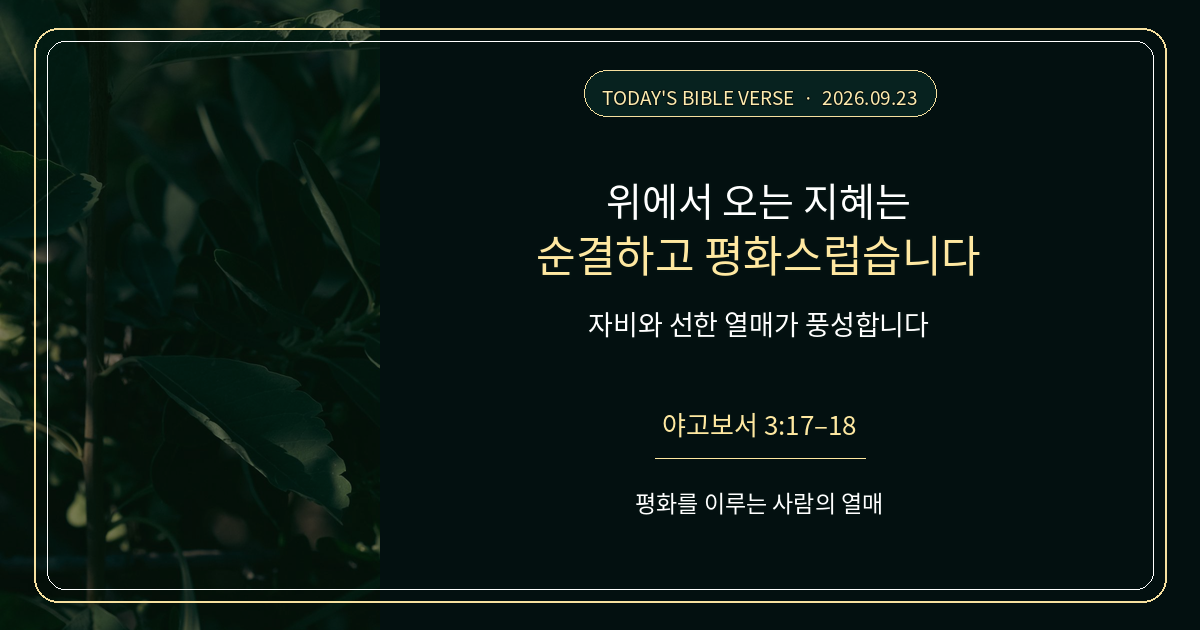
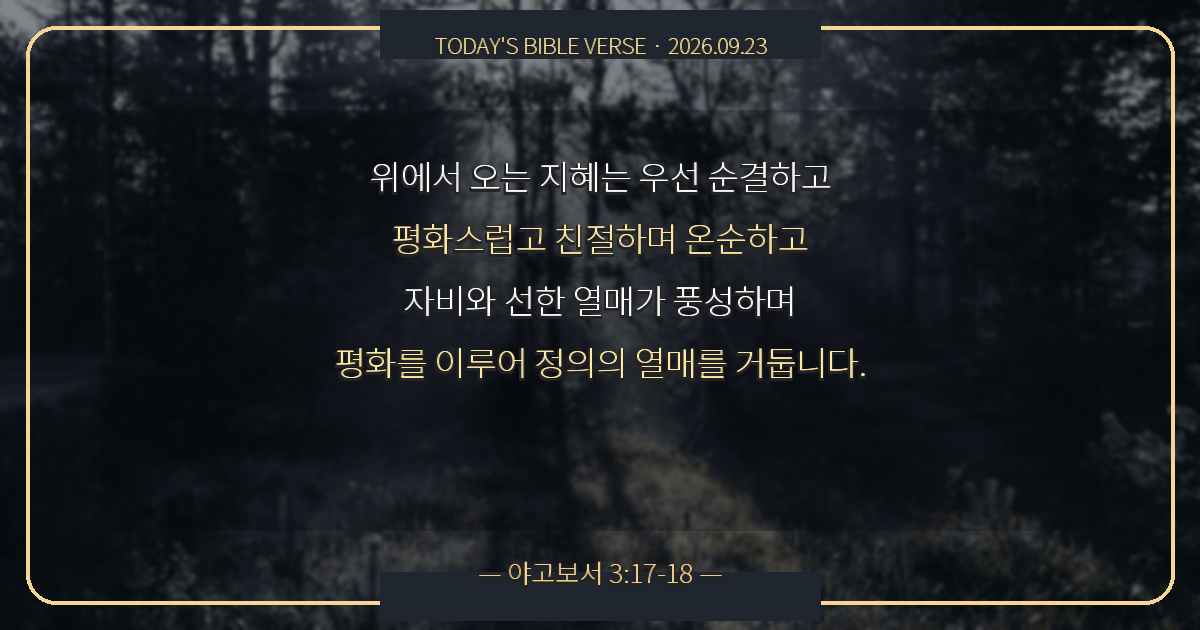
Update James 3:17-18 daily Bible verse page with serene forest sunlight background and readable Kakao thumbnail for 2026-09-23

diff --git a/2026-09-23/kakao-v1.html b/2026-09-23/kakao-v1.html
@@ -1,18 +1,92 @@
-<!doctype html>
+<!DOCTYPE html>
 <html lang="ko">
 <head>
-  <meta charset="utf-8"><meta name="viewport" content="width=device-width, initial-scale=1"><meta name="theme-color" content="#0d2d28">
-  <meta name="description" content="위에서 오는 지혜는 순결하고 평화로우며 자비와 선한 열매가 풍성합니다. 야고보서 3:17–18">
-  <link rel="canonical" href="https://vidavida1970.github.io/Bible/2026-09-23/kakao-v1.html"><link rel="image_src" href="https://vidavida1970.github.io/Bible/2026-09-23/assets/thumbnail-v1.jpg"><meta name="thumbnail" content="https://vidavida1970.github.io/Bible/2026-09-23/assets/thumbnail-v1.jpg">
-  <meta property="og:title" content="오늘의 말씀 · 야고보서 3:17–18"><meta property="og:description" content="위에서 오는 지혜는 순결하고 평화로우며 자비와 선한 열매가 풍성합니다."><meta property="og:type" content="website"><meta property="og:site_name" content="오늘의 말씀"><meta property="og:locale" content="ko_KR"><meta property="og:url" content="https://vidavida1970.github.io/Bible/2026-09-23/kakao-v1.html"><meta property="og:image" content="https://vidavida1970.github.io/Bible/2026-09-23/assets/thumbnail-v1.jpg"><meta property="og:image:url" content="https://vidavida1970.github.io/Bible/2026-09-23/assets/thumbnail-v1.jpg"><meta property="og:image:secure_url" content="https://vidavida1970.github.io/Bible/2026-09-23/assets/thumbnail-v1.jpg"><meta property="og:image:type" content="image/jpeg"><meta property="og:image:width" content="1200"><meta property="og:image:height" content="630"><meta property="og:image:alt" content="야고보서 3장 17–18절 오늘의 말씀 썸네일">
-  <meta name="twitter:card" content="summary_large_image"><meta name="twitter:title" content="오늘의 말씀 · 야고보서 3:17–18"><meta name="twitter:description" content="위에서 오는 지혜는 순결하고 평화로우며 자비와 선한 열매가 풍성합니다."><meta name="twitter:image" content="https://vidavida1970.github.io/Bible/2026-09-23/assets/thumbnail-v1.jpg"><meta name="twitter:image:alt" content="야고보서 3장 17–18절 오늘의 말씀 썸네일">
-  <title>오늘의 말씀 · 야고보서 3:17–18</title>
+  <meta charset="UTF-8">
+  <meta name="viewport" content="width=device-width, initial-scale=1.0">
+  <meta name="theme-color" content="#0b111c">
+  <meta name="description" content="“그러나 위에서 오는 지혜는 우선 순결하고, 다음으로 평화스럽고, 친절하고, 온순하고, 자비와 선한 열매가 풍성하고, 편견과 위선이 없습니다. 정의의 열매는 평화를 이루는 사람들이 평화를 위하여 그 씨를 뿌려서 거두어들이는 열매입니다.” — 야고보서 3:17-18">
+  <link rel="canonical" href="https://vidavida1970.github.io/Bible/2026-09-23/">
+  <link rel="image_src" href="https://vidavida1970.github.io/Bible/2026-09-23/assets/thumbnail-v2.jpg?v=20260923">
+  <meta name="thumbnail" content="https://vidavida1970.github.io/Bible/2026-09-23/assets/thumbnail-v2.jpg?v=20260923">
+
+  <!-- KakaoTalk & OpenGraph -->
+  <meta property="og:title" content="오늘의 말씀｜위에서 오는 지혜와 평화의 열매">
+  <meta property="og:description" content="“위에서 오는 지혜는 우선 순결하고 평화스럽고 친절하며 온순하고, 자비와 선한 열매가 풍성합니다.” — 야고보서 3:17-18">
+  <meta property="og:type" content="article">
+  <meta property="og:site_name" content="매일매일 큐티">
+  <meta property="og:locale" content="ko_KR">
+  <meta property="og:url" content="https://vidavida1970.github.io/Bible/2026-09-23/">
+  <meta property="og:image" content="https://vidavida1970.github.io/Bible/2026-09-23/assets/thumbnail-v2.jpg?v=20260923">
+  <meta property="og:image:url" content="https://vidavida1970.github.io/Bible/2026-09-23/assets/thumbnail-v2.jpg?v=20260923">
+  <meta property="og:image:secure_url" content="https://vidavida1970.github.io/Bible/2026-09-23/assets/thumbnail-v2.jpg?v=20260923">
+  <meta property="og:image:type" content="image/jpeg">
+  <meta property="og:image:width" content="1200">
+  <meta property="og:image:height" content="630">
+  <meta property="og:image:alt" content="고요한 숲속으로 쏟아지는 아침 햇살과 야고보서 3장 17-18절 오늘의 말씀 묵상">
+
+  <!-- Twitter Card -->
+  <meta name="twitter:card" content="summary_large_image">
+  <meta name="twitter:title" content="오늘의 말씀｜위에서 오는 지혜와 평화의 열매">
+  <meta name="twitter:description" content="“위에서 오는 지혜는 우선 순결하고 평화스럽고 친절하며 온순하고, 자비와 선한 열매가 풍성합니다.” — 야고보서 3:17-18">
+  <meta name="twitter:image" content="https://vidavida1970.github.io/Bible/2026-09-23/assets/thumbnail-v2.jpg?v=20260923">
+  <meta name="twitter:image:alt" content="고요한 숲속으로 쏟아지는 아침 햇살과 야고보서 3장 17-18절 오늘의 말씀 묵상">
+
+  <title>오늘의 말씀｜위에서 오는 지혜와 평화의 열매 (야고보서 3:17-18)</title>
   <style>
-    @import url('https://fonts.googleapis.com/css2?family=Noto+Serif+KR:wght@500;700;900&family=Pretendard:wght@400;600;700;800&display=swap');*{box-sizing:border-box}:root{--gold:#ffe8a1}body{margin:0;min-height:100vh;color:#f1fbf6;font-family:Pretendard,"Noto Sans KR",sans-serif;background:#0d2d28}.page{min-height:100vh;padding:clamp(28px,6vw,72px) 16px;background:linear-gradient(180deg,rgba(5,27,23,.28),rgba(3,19,17,.86)),url('assets/background.jpg') center/cover no-repeat fixed}.shell{width:min(980px,100%);margin:auto;display:grid;gap:26px}.card{border:1px solid rgba(255,255,255,.26);box-shadow:0 26px 75px rgba(0,0,0,.32);backdrop-filter:blur(14px);-webkit-backdrop-filter:blur(14px)}.verse-card{padding:clamp(32px,7vw,74px) clamp(22px,6vw,72px);border-radius:32px;text-align:center;background:rgba(8,42,35,.76)}.date{margin:0 0 12px;font-size:13px;letter-spacing:.15em;color:rgba(255,255,255,.76)}.label{margin:0 0 27px;color:var(--gold);font-size:14px;font-weight:800;letter-spacing:.18em}blockquote{margin:0;font-family:"Noto Serif KR",serif;font-size:clamp(23px,3.8vw,40px);line-height:1.72;font-weight:700;letter-spacing:-.045em;word-break:keep-all;text-shadow:0 4px 22px rgba(0,0,0,.72)}.highlight{color:var(--gold);font-weight:900}.note{margin:25px auto 0;max-width:700px;color:rgba(255,255,255,.78);font-size:15px;line-height:1.8;word-break:keep-all}.reference{margin-top:24px;font-size:18px;font-weight:800;color:var(--gold)}.video-card{padding:20px;border-radius:26px;background:rgba(5,31,26,.88)}.video-heading{margin:0 0 14px;font-size:17px}.video-wrap{position:relative;aspect-ratio:16/9;overflow:hidden;border-radius:18px;background:#000}.video-wrap iframe{position:absolute;inset:0;width:100%;height:100%;border:0}.watch-button{display:inline-flex;min-height:46px;align-items:center;margin-top:14px;padding:0 20px;border-radius:999px;background:var(--gold);color:#11362f;text-decoration:none;font-weight:800}.credit{margin:0;text-align:center;font-size:12px;color:rgba(255,255,255,.74)}.credit a{color:#fff}@media(max-width:700px){.page{background-attachment:scroll}.verse-card{border-radius:24px}.video-card{padding:14px;border-radius:22px}blockquote{line-height:1.62}}
+    *{box-sizing:border-box}
+    html{scroll-behavior:smooth}
+    body{margin:0;background:#0b111c;color:#fff;font-family:Pretendard,"Noto Sans KR","Apple SD Gothic Neo",sans-serif;-webkit-font-smoothing:antialiased}
+    .page{min-height:100vh;padding:56px 20px 72px;background:linear-gradient(180deg,rgba(11,18,32,.55),rgba(7,11,20,.94)),url("assets/background.jpg") center/cover no-repeat fixed}
+    .shell{width:min(940px,100%);margin:auto;display:grid;gap:26px}
+    .card{border:1px solid rgba(245,215,150,.25);backdrop-filter:blur(18px);-webkit-backdrop-filter:blur(18px);box-shadow:0 26px 75px rgba(0,0,0,.45)}
+    .verse{padding:clamp(36px,6vw,72px);border-radius:34px;background:linear-gradient(145deg,rgba(16,25,44,.86),rgba(24,36,62,.66));text-align:center}
+    .date{margin:0 0 10px;color:rgba(255,255,255,.78);font-size:15px;letter-spacing:.08em;font-weight:500}
+    .label{margin:0 0 28px;color:#f5d28b;font-weight:800;letter-spacing:.20em;font-size:14px}
+    blockquote{margin:0;font-family:"Noto Serif KR","Nanum Myeongjo",serif;font-size:clamp(19px,3.1vw,29px);font-weight:700;line-height:1.85;letter-spacing:-.035em;word-break:keep-all;text-shadow:0 4px 24px rgba(0,0,0,.75)}
+    .highlight{color:#ffe8a3;font-weight:900}
+    .ref{margin-top:30px;color:#f5d28b;font-size:20px;font-weight:800;letter-spacing:.05em}
+    .video{padding:26px;border-radius:28px;background:rgba(14,21,38,.88)}
+    h2{margin:0 0 16px;font-size:19px;font-weight:700;color:#f5d28b;display:flex;align-items:center;gap:8px}
+    .video-wrap{position:relative;width:100%;aspect-ratio:16/9;overflow:hidden;border-radius:20px;background:#000;box-shadow:0 12px 40px rgba(0,0,0,.5)}
+    .video-wrap iframe{position:absolute;inset:0;width:100%;height:100%;border:0}
+    .btn-wrap{display:flex;justify-content:center;margin-top:18px}
+    .watch{display:inline-flex;min-height:48px;align-items:center;padding:0 24px;border-radius:999px;background:#f5d28b;color:#0b111c;text-decoration:none;font-weight:800;font-size:15px;box-shadow:0 8px 25px rgba(245,210,139,.3);transition:transform .2s,background .2s}
+    .watch:hover{background:#ffe3a8;transform:translateY(-2px)}
+    .credit{margin:10px 0 0;text-align:center;font-size:13px;color:rgba(255,255,255,.68);letter-spacing:.02em}
+    @media(max-width:700px){
+      .page{padding:28px 14px 44px;background-attachment:scroll}
+      .verse{padding:36px 20px;border-radius:26px}
+      .video{padding:18px;border-radius:24px}
+      blockquote{line-height:1.70;font-size:clamp(16px,4.6vw,22px)}
+    }
   </style>
 </head>
-<body><main class="page"><div class="shell">
-  <section class="card verse-card"><p class="date">2026년 9월 23일</p><p class="label">TODAY'S WORD · 오늘의 말씀</p><blockquote>“위에서 오는 지혜는 <span class="highlight">순결하고 평화스럽습니다.</span><br>자비와 선한 열매가 풍성합니다.<br><span class="highlight">평화를 이루는 사람은 정의의 열매를 거둡니다.</span>”</blockquote><p class="note">오늘의 말씀 핵심: 순결한 지혜는 평화를 만들고, 온유와 자비를 통해 선한 열매를 맺습니다.</p><div class="reference">야고보서 3:17–18</div></section>
-  <section class="card video-card"><h2 class="video-heading">▶ 말씀과 함께 영상 보기</h2><div class="video-wrap"><iframe src="https://www.youtube-nocookie.com/embed/SxyHZ0ox3LM?rel=0&amp;playsinline=1" title="야고보서 3장 17–18절 말씀 묵상 영상" referrerpolicy="strict-origin-when-cross-origin" allow="accelerometer; autoplay; clipboard-write; encrypted-media; gyroscope; picture-in-picture; web-share" allowfullscreen></iframe></div><a class="watch-button" href="https://youtu.be/SxyHZ0ox3LM?si=GRRNjxxVhtL4tbJc" target="_blank" rel="noopener noreferrer">▶ YouTube에서 바로 보기</a></section>
-  <p class="credit">Background photo: <a href="https://www.pexels.com/photo/serene-white-flowers-in-sunlit-garden-32628232/" target="_blank" rel="noopener noreferrer">Kaiya Inouye · Pexels</a></p>
-</div></main></body></html>
+<body>
+  <main class="page"><div class="shell">
+    <section class="card verse">
+      <p class="date">2026년 9월 23일 수요일</p>
+      <p class="label">TODAY'S BIBLE VERSE · 오늘의 말씀</p>
+      <blockquote>
+        “그러나 위에서 오는 지혜는 <span class="highlight">우선 순결하고,</span><br>
+        다음으로 <span class="highlight">평화스럽고, 친절하고, 온순하고,</span><br>
+        자비와 선한 열매가 풍성하고, 편견과 위선이 없습니다.<br><br>
+        <span class="highlight">정의의 열매는 평화를 이루는 사람들이</span><br>
+        <span class="highlight">평화를 위하여 그 씨를 뿌려서 거두어들이는 열매입니다.</span>”
+      </blockquote>
+      <div class="ref">— 야고보서 3:17-18 —</div>
+    </section>
+
+    <section class="card video">
+      <h2>▶ 야고보서 3:17-18 말씀 찬양 영상 함께 보기</h2>
+      <div class="video-wrap">
+        <iframe src="https://www.youtube-nocookie.com/embed/SxyHZ0ox3LM?rel=0&amp;playsinline=1" title="야고보서 3:17-18 말씀 찬양 영상" referrerpolicy="strict-origin-when-cross-origin" allow="accelerometer; autoplay; clipboard-write; encrypted-media; gyroscope; picture-in-picture; web-share" allowfullscreen></iframe>
+      </div>
+      <div class="btn-wrap">
+        <a class="watch" href="https://youtu.be/SxyHZ0ox3LM" target="_blank" rel="noopener noreferrer">▶ YouTube에서 바로 보기</a>
+      </div>
+    </section>
+
+    <p class="credit">매일매일 큐티 · 오늘의 말씀 배경화면 | 2026-09-23 · 야고보서 3:17-18</p>
+  </div></main>
+</body>
+</html>

diff --git a/2026-09-23/kakao-v2.html b/2026-09-23/kakao-v2.html
@@ -1,18 +1,92 @@
-<!doctype html>
+<!DOCTYPE html>
 <html lang="ko">
 <head>
-  <meta charset="utf-8"><meta name="viewport" content="width=device-width, initial-scale=1"><meta name="theme-color" content="#0d2d28">
-  <meta name="description" content="위에서 오는 지혜는 순결하고 평화로우며 자비와 선한 열매가 풍성합니다. 야고보서 3:17–18">
-  <link rel="canonical" href="https://vidavida1970.github.io/Bible/2026-09-23/kakao-v2.html"><link rel="image_src" href="https://vidavida1970.github.io/Bible/2026-09-23/assets/thumbnail-v2.jpg"><meta name="thumbnail" content="https://vidavida1970.github.io/Bible/2026-09-23/assets/thumbnail-v2.jpg">
-  <meta property="og:title" content="오늘의 말씀 · 야고보서 3:17–18"><meta property="og:description" content="위에서 오는 지혜는 순결하고 평화로우며 자비와 선한 열매가 풍성합니다."><meta property="og:type" content="website"><meta property="og:site_name" content="오늘의 말씀"><meta property="og:locale" content="ko_KR"><meta property="og:url" content="https://vidavida1970.github.io/Bible/2026-09-23/kakao-v2.html"><meta property="og:image" content="https://vidavida1970.github.io/Bible/2026-09-23/assets/thumbnail-v2.jpg"><meta property="og:image:url" content="https://vidavida1970.github.io/Bible/2026-09-23/assets/thumbnail-v2.jpg"><meta property="og:image:secure_url" content="https://vidavida1970.github.io/Bible/2026-09-23/assets/thumbnail-v2.jpg"><meta property="og:image:type" content="image/jpeg"><meta property="og:image:width" content="1200"><meta property="og:image:height" content="630"><meta property="og:image:alt" content="야고보서 3장 17–18절 오늘의 말씀 썸네일">
-  <meta name="twitter:card" content="summary_large_image"><meta name="twitter:title" content="오늘의 말씀 · 야고보서 3:17–18"><meta name="twitter:description" content="위에서 오는 지혜는 순결하고 평화로우며 자비와 선한 열매가 풍성합니다."><meta name="twitter:image" content="https://vidavida1970.github.io/Bible/2026-09-23/assets/thumbnail-v2.jpg"><meta name="twitter:image:alt" content="야고보서 3장 17–18절 오늘의 말씀 썸네일">
-  <title>오늘의 말씀 · 야고보서 3:17–18</title>
+  <meta charset="UTF-8">
+  <meta name="viewport" content="width=device-width, initial-scale=1.0">
+  <meta name="theme-color" content="#0b111c">
+  <meta name="description" content="“그러나 위에서 오는 지혜는 우선 순결하고, 다음으로 평화스럽고, 친절하고, 온순하고, 자비와 선한 열매가 풍성하고, 편견과 위선이 없습니다. 정의의 열매는 평화를 이루는 사람들이 평화를 위하여 그 씨를 뿌려서 거두어들이는 열매입니다.” — 야고보서 3:17-18">
+  <link rel="canonical" href="https://vidavida1970.github.io/Bible/2026-09-23/">
+  <link rel="image_src" href="https://vidavida1970.github.io/Bible/2026-09-23/assets/thumbnail-v2.jpg?v=20260923">
+  <meta name="thumbnail" content="https://vidavida1970.github.io/Bible/2026-09-23/assets/thumbnail-v2.jpg?v=20260923">
+
+  <!-- KakaoTalk & OpenGraph -->
+  <meta property="og:title" content="오늘의 말씀｜위에서 오는 지혜와 평화의 열매">
+  <meta property="og:description" content="“위에서 오는 지혜는 우선 순결하고 평화스럽고 친절하며 온순하고, 자비와 선한 열매가 풍성합니다.” — 야고보서 3:17-18">
+  <meta property="og:type" content="article">
+  <meta property="og:site_name" content="매일매일 큐티">
+  <meta property="og:locale" content="ko_KR">
+  <meta property="og:url" content="https://vidavida1970.github.io/Bible/2026-09-23/">
+  <meta property="og:image" content="https://vidavida1970.github.io/Bible/2026-09-23/assets/thumbnail-v2.jpg?v=20260923">
+  <meta property="og:image:url" content="https://vidavida1970.github.io/Bible/2026-09-23/assets/thumbnail-v2.jpg?v=20260923">
+  <meta property="og:image:secure_url" content="https://vidavida1970.github.io/Bible/2026-09-23/assets/thumbnail-v2.jpg?v=20260923">
+  <meta property="og:image:type" content="image/jpeg">
+  <meta property="og:image:width" content="1200">
+  <meta property="og:image:height" content="630">
+  <meta property="og:image:alt" content="고요한 숲속으로 쏟아지는 아침 햇살과 야고보서 3장 17-18절 오늘의 말씀 묵상">
+
+  <!-- Twitter Card -->
+  <meta name="twitter:card" content="summary_large_image">
+  <meta name="twitter:title" content="오늘의 말씀｜위에서 오는 지혜와 평화의 열매">
+  <meta name="twitter:description" content="“위에서 오는 지혜는 우선 순결하고 평화스럽고 친절하며 온순하고, 자비와 선한 열매가 풍성합니다.” — 야고보서 3:17-18">
+  <meta name="twitter:image" content="https://vidavida1970.github.io/Bible/2026-09-23/assets/thumbnail-v2.jpg?v=20260923">
+  <meta name="twitter:image:alt" content="고요한 숲속으로 쏟아지는 아침 햇살과 야고보서 3장 17-18절 오늘의 말씀 묵상">
+
+  <title>오늘의 말씀｜위에서 오는 지혜와 평화의 열매 (야고보서 3:17-18)</title>
   <style>
-    @import url('https://fonts.googleapis.com/css2?family=Noto+Serif+KR:wght@500;700;900&family=Pretendard:wght@400;600;700;800&display=swap');*{box-sizing:border-box}:root{--gold:#ffe8a1}body{margin:0;min-height:100vh;color:#f1fbf6;font-family:Pretendard,"Noto Sans KR",sans-serif;background:#0d2d28}.page{min-height:100vh;padding:clamp(28px,6vw,72px) 16px;background:linear-gradient(180deg,rgba(5,27,23,.28),rgba(3,19,17,.86)),url('assets/background.jpg') center/cover no-repeat fixed}.shell{width:min(980px,100%);margin:auto;display:grid;gap:26px}.card{border:1px solid rgba(255,255,255,.26);box-shadow:0 26px 75px rgba(0,0,0,.32);backdrop-filter:blur(14px);-webkit-backdrop-filter:blur(14px)}.verse-card{padding:clamp(32px,7vw,74px) clamp(22px,6vw,72px);border-radius:32px;text-align:center;background:rgba(8,42,35,.76)}.date{margin:0 0 12px;font-size:13px;letter-spacing:.15em;color:rgba(255,255,255,.76)}.label{margin:0 0 27px;color:var(--gold);font-size:14px;font-weight:800;letter-spacing:.18em}blockquote{margin:0;font-family:"Noto Serif KR",serif;font-size:clamp(23px,3.8vw,40px);line-height:1.72;font-weight:700;letter-spacing:-.045em;word-break:keep-all;text-shadow:0 4px 22px rgba(0,0,0,.72)}.highlight{color:var(--gold);font-weight:900}.note{margin:25px auto 0;max-width:700px;color:rgba(255,255,255,.78);font-size:15px;line-height:1.8;word-break:keep-all}.reference{margin-top:24px;font-size:18px;font-weight:800;color:var(--gold)}.video-card{padding:20px;border-radius:26px;background:rgba(5,31,26,.88)}.video-heading{margin:0 0 14px;font-size:17px}.video-wrap{position:relative;aspect-ratio:16/9;overflow:hidden;border-radius:18px;background:#000}.video-wrap iframe{position:absolute;inset:0;width:100%;height:100%;border:0}.watch-button{display:inline-flex;min-height:46px;align-items:center;margin-top:14px;padding:0 20px;border-radius:999px;background:var(--gold);color:#11362f;text-decoration:none;font-weight:800}.credit{margin:0;text-align:center;font-size:12px;color:rgba(255,255,255,.74)}.credit a{color:#fff}@media(max-width:700px){.page{background-attachment:scroll}.verse-card{border-radius:24px}.video-card{padding:14px;border-radius:22px}blockquote{line-height:1.62}}
+    *{box-sizing:border-box}
+    html{scroll-behavior:smooth}
+    body{margin:0;background:#0b111c;color:#fff;font-family:Pretendard,"Noto Sans KR","Apple SD Gothic Neo",sans-serif;-webkit-font-smoothing:antialiased}
+    .page{min-height:100vh;padding:56px 20px 72px;background:linear-gradient(180deg,rgba(11,18,32,.55),rgba(7,11,20,.94)),url("assets/background.jpg") center/cover no-repeat fixed}
+    .shell{width:min(940px,100%);margin:auto;display:grid;gap:26px}
+    .card{border:1px solid rgba(245,215,150,.25);backdrop-filter:blur(18px);-webkit-backdrop-filter:blur(18px);box-shadow:0 26px 75px rgba(0,0,0,.45)}
+    .verse{padding:clamp(36px,6vw,72px);border-radius:34px;background:linear-gradient(145deg,rgba(16,25,44,.86),rgba(24,36,62,.66));text-align:center}
+    .date{margin:0 0 10px;color:rgba(255,255,255,.78);font-size:15px;letter-spacing:.08em;font-weight:500}
+    .label{margin:0 0 28px;color:#f5d28b;font-weight:800;letter-spacing:.20em;font-size:14px}
+    blockquote{margin:0;font-family:"Noto Serif KR","Nanum Myeongjo",serif;font-size:clamp(19px,3.1vw,29px);font-weight:700;line-height:1.85;letter-spacing:-.035em;word-break:keep-all;text-shadow:0 4px 24px rgba(0,0,0,.75)}
+    .highlight{color:#ffe8a3;font-weight:900}
+    .ref{margin-top:30px;color:#f5d28b;font-size:20px;font-weight:800;letter-spacing:.05em}
+    .video{padding:26px;border-radius:28px;background:rgba(14,21,38,.88)}
+    h2{margin:0 0 16px;font-size:19px;font-weight:700;color:#f5d28b;display:flex;align-items:center;gap:8px}
+    .video-wrap{position:relative;width:100%;aspect-ratio:16/9;overflow:hidden;border-radius:20px;background:#000;box-shadow:0 12px 40px rgba(0,0,0,.5)}
+    .video-wrap iframe{position:absolute;inset:0;width:100%;height:100%;border:0}
+    .btn-wrap{display:flex;justify-content:center;margin-top:18px}
+    .watch{display:inline-flex;min-height:48px;align-items:center;padding:0 24px;border-radius:999px;background:#f5d28b;color:#0b111c;text-decoration:none;font-weight:800;font-size:15px;box-shadow:0 8px 25px rgba(245,210,139,.3);transition:transform .2s,background .2s}
+    .watch:hover{background:#ffe3a8;transform:translateY(-2px)}
+    .credit{margin:10px 0 0;text-align:center;font-size:13px;color:rgba(255,255,255,.68);letter-spacing:.02em}
+    @media(max-width:700px){
+      .page{padding:28px 14px 44px;background-attachment:scroll}
+      .verse{padding:36px 20px;border-radius:26px}
+      .video{padding:18px;border-radius:24px}
+      blockquote{line-height:1.70;font-size:clamp(16px,4.6vw,22px)}
+    }
   </style>
 </head>
-<body><main class="page"><div class="shell">
-  <section class="card verse-card"><p class="date">2026년 9월 23일</p><p class="label">TODAY'S WORD · 오늘의 말씀</p><blockquote>“위에서 오는 지혜는 <span class="highlight">순결하고 평화스럽습니다.</span><br>자비와 선한 열매가 풍성합니다.<br><span class="highlight">평화를 이루는 사람은 정의의 열매를 거둡니다.</span>”</blockquote><p class="note">오늘의 말씀 핵심: 순결한 지혜는 평화를 만들고, 온유와 자비를 통해 선한 열매를 맺습니다.</p><div class="reference">야고보서 3:17–18</div></section>
-  <section class="card video-card"><h2 class="video-heading">▶ 말씀과 함께 영상 보기</h2><div class="video-wrap"><iframe src="https://www.youtube-nocookie.com/embed/SxyHZ0ox3LM?rel=0&amp;playsinline=1" title="야고보서 3장 17–18절 말씀 묵상 영상" referrerpolicy="strict-origin-when-cross-origin" allow="accelerometer; autoplay; clipboard-write; encrypted-media; gyroscope; picture-in-picture; web-share" allowfullscreen></iframe></div><a class="watch-button" href="https://youtu.be/SxyHZ0ox3LM?si=GRRNjxxVhtL4tbJc" target="_blank" rel="noopener noreferrer">▶ YouTube에서 바로 보기</a></section>
-  <p class="credit">Background photo: <a href="https://www.pexels.com/photo/serene-white-flowers-in-sunlit-garden-32628232/" target="_blank" rel="noopener noreferrer">Kaiya Inouye · Pexels</a></p>
-</div></main></body></html>
+<body>
+  <main class="page"><div class="shell">
+    <section class="card verse">
+      <p class="date">2026년 9월 23일 수요일</p>
+      <p class="label">TODAY'S BIBLE VERSE · 오늘의 말씀</p>
+      <blockquote>
+        “그러나 위에서 오는 지혜는 <span class="highlight">우선 순결하고,</span><br>
+        다음으로 <span class="highlight">평화스럽고, 친절하고, 온순하고,</span><br>
+        자비와 선한 열매가 풍성하고, 편견과 위선이 없습니다.<br><br>
+        <span class="highlight">정의의 열매는 평화를 이루는 사람들이</span><br>
+        <span class="highlight">평화를 위하여 그 씨를 뿌려서 거두어들이는 열매입니다.</span>”
+      </blockquote>
+      <div class="ref">— 야고보서 3:17-18 —</div>
+    </section>
+
+    <section class="card video">
+      <h2>▶ 야고보서 3:17-18 말씀 찬양 영상 함께 보기</h2>
+      <div class="video-wrap">
+        <iframe src="https://www.youtube-nocookie.com/embed/SxyHZ0ox3LM?rel=0&amp;playsinline=1" title="야고보서 3:17-18 말씀 찬양 영상" referrerpolicy="strict-origin-when-cross-origin" allow="accelerometer; autoplay; clipboard-write; encrypted-media; gyroscope; picture-in-picture; web-share" allowfullscreen></iframe>
+      </div>
+      <div class="btn-wrap">
+        <a class="watch" href="https://youtu.be/SxyHZ0ox3LM" target="_blank" rel="noopener noreferrer">▶ YouTube에서 바로 보기</a>
+      </div>
+    </section>
+
+    <p class="credit">매일매일 큐티 · 오늘의 말씀 배경화면 | 2026-09-23 · 야고보서 3:17-18</p>
+  </div></main>
+</body>
+</html>

diff --git a/2026-09-23/index.html b/2026-09-23/index.html
@@ -1,71 +1,92 @@
-<!doctype html>
+<!DOCTYPE html>
 <html lang="ko">
 <head>
-  <meta charset="utf-8">
-  <meta name="viewport" content="width=device-width, initial-scale=1">
-  <meta name="theme-color" content="#0d2d28">
-  <meta name="description" content="야고보서 3장 17–18절 — 위에서 오는 지혜는 순결하고 평화로우며 자비와 선한 열매가 풍성합니다.">
+  <meta charset="UTF-8">
+  <meta name="viewport" content="width=device-width, initial-scale=1.0">
+  <meta name="theme-color" content="#0b111c">
+  <meta name="description" content="“그러나 위에서 오는 지혜는 우선 순결하고, 다음으로 평화스럽고, 친절하고, 온순하고, 자비와 선한 열매가 풍성하고, 편견과 위선이 없습니다. 정의의 열매는 평화를 이루는 사람들이 평화를 위하여 그 씨를 뿌려서 거두어들이는 열매입니다.” — 야고보서 3:17-18">
   <link rel="canonical" href="https://vidavida1970.github.io/Bible/2026-09-23/">
-  <link rel="image_src" href="https://vidavida1970.github.io/Bible/2026-09-23/assets/thumbnail-v2.jpg">
-  <meta name="thumbnail" content="https://vidavida1970.github.io/Bible/2026-09-23/assets/thumbnail-v2.jpg">
-  <meta property="og:title" content="오늘의 말씀 · 야고보서 3:17–18">
-  <meta property="og:description" content="위에서 오는 지혜는 순결하고 평화로우며 자비와 선한 열매가 풍성합니다.">
-  <meta property="og:type" content="website">
-  <meta property="og:site_name" content="오늘의 말씀">
+  <link rel="image_src" href="https://vidavida1970.github.io/Bible/2026-09-23/assets/thumbnail-v2.jpg?v=20260923">
+  <meta name="thumbnail" content="https://vidavida1970.github.io/Bible/2026-09-23/assets/thumbnail-v2.jpg?v=20260923">
+
+  <!-- KakaoTalk & OpenGraph -->
+  <meta property="og:title" content="오늘의 말씀｜위에서 오는 지혜와 평화의 열매">
+  <meta property="og:description" content="“위에서 오는 지혜는 우선 순결하고 평화스럽고 친절하며 온순하고, 자비와 선한 열매가 풍성합니다.” — 야고보서 3:17-18">
+  <meta property="og:type" content="article">
+  <meta property="og:site_name" content="매일매일 큐티">
   <meta property="og:locale" content="ko_KR">
   <meta property="og:url" content="https://vidavida1970.github.io/Bible/2026-09-23/">
-  <meta property="og:image" content="https://vidavida1970.github.io/Bible/2026-09-23/assets/thumbnail-v2.jpg">
-  <meta property="og:image:url" content="https://vidavida1970.github.io/Bible/2026-09-23/assets/thumbnail-v2.jpg">
-  <meta property="og:image:secure_url" content="https://vidavida1970.github.io/Bible/2026-09-23/assets/thumbnail-v2.jpg">
+  <meta property="og:image" content="https://vidavida1970.github.io/Bible/2026-09-23/assets/thumbnail-v2.jpg?v=20260923">
+  <meta property="og:image:url" content="https://vidavida1970.github.io/Bible/2026-09-23/assets/thumbnail-v2.jpg?v=20260923">
+  <meta property="og:image:secure_url" content="https://vidavida1970.github.io/Bible/2026-09-23/assets/thumbnail-v2.jpg?v=20260923">
   <meta property="og:image:type" content="image/jpeg">
   <meta property="og:image:width" content="1200">
   <meta property="og:image:height" content="630">
-  <meta property="og:image:alt" content="흰 꽃과 녹색 잎을 배경으로 한 야고보서 3장 17–18절 오늘의 말씀">
+  <meta property="og:image:alt" content="고요한 숲속으로 쏟아지는 아침 햇살과 야고보서 3장 17-18절 오늘의 말씀 묵상">
+
+  <!-- Twitter Card -->
   <meta name="twitter:card" content="summary_large_image">
-  <meta name="twitter:title" content="오늘의 말씀 · 야고보서 3:17–18">
-  <meta name="twitter:description" content="위에서 오는 지혜는 순결하고 평화로우며 자비와 선한 열매가 풍성합니다.">
-  <meta name="twitter:image" content="https://vidavida1970.github.io/Bible/2026-09-23/assets/thumbnail-v2.jpg">
-  <title>오늘의 말씀 · 야고보서 3:17–18</title>
+  <meta name="twitter:title" content="오늘의 말씀｜위에서 오는 지혜와 평화의 열매">
+  <meta name="twitter:description" content="“위에서 오는 지혜는 우선 순결하고 평화스럽고 친절하며 온순하고, 자비와 선한 열매가 풍성합니다.” — 야고보서 3:17-18">
+  <meta name="twitter:image" content="https://vidavida1970.github.io/Bible/2026-09-23/assets/thumbnail-v2.jpg?v=20260923">
+  <meta name="twitter:image:alt" content="고요한 숲속으로 쏟아지는 아침 햇살과 야고보서 3장 17-18절 오늘의 말씀 묵상">
+
+  <title>오늘의 말씀｜위에서 오는 지혜와 평화의 열매 (야고보서 3:17-18)</title>
   <style>
-    @import url('https://fonts.googleapis.com/css2?family=Noto+Serif+KR:wght@500;700;900&family=Pretendard:wght@400;600;700;800&display=swap');
-    :root { --gold:#ffe8a1; --ink:#f1fbf6; --green:#0d2d28; }
-    * { box-sizing:border-box; }
-    body { margin:0; min-height:100vh; color:var(--ink); font-family:Pretendard,"Noto Sans KR",sans-serif; background:#0d2d28; }
-    .page { min-height:100vh; padding:clamp(28px,6vw,72px) 16px; background:linear-gradient(180deg,rgba(5,27,23,.28),rgba(3,19,17,.86)),url('assets/background.jpg') center/cover no-repeat fixed; }
-    .shell { width:min(980px,100%); margin:auto; display:grid; gap:26px; }
-    .card { border:1px solid rgba(255,255,255,.26); box-shadow:0 26px 75px rgba(0,0,0,.32); backdrop-filter:blur(14px); -webkit-backdrop-filter:blur(14px); }
-    .verse-card { padding:clamp(32px,7vw,74px) clamp(22px,6vw,72px); border-radius:32px; text-align:center; background:rgba(8,42,35,.76); }
-    .date { margin:0 0 12px; font-size:13px; letter-spacing:.15em; color:rgba(255,255,255,.76); }
-    .label { margin:0 0 27px; color:var(--gold); font-size:14px; font-weight:800; letter-spacing:.18em; }
-    blockquote { margin:0; font-family:"Noto Serif KR",serif; font-size:clamp(23px,3.8vw,40px); line-height:1.72; font-weight:700; letter-spacing:-.045em; word-break:keep-all; text-shadow:0 4px 22px rgba(0,0,0,.72); }
-    .highlight { color:var(--gold); font-weight:900; }
-    .note { margin:25px auto 0; max-width:700px; color:rgba(255,255,255,.78); font-size:15px; line-height:1.8; word-break:keep-all; }
-    .reference { margin-top:24px; font-size:18px; font-weight:800; color:var(--gold); }
-    .video-card { padding:20px; border-radius:26px; background:rgba(5,31,26,.88); }
-    .video-heading { margin:0 0 14px; font-size:17px; }
-    .video-wrap { position:relative; aspect-ratio:16/9; overflow:hidden; border-radius:18px; background:#000; }
-    .video-wrap iframe { position:absolute; inset:0; width:100%; height:100%; border:0; }
-    .watch-button { display:inline-flex; min-height:46px; align-items:center; margin-top:14px; padding:0 20px; border-radius:999px; background:var(--gold); color:#11362f; text-decoration:none; font-weight:800; }
-    .credit { margin:0; text-align:center; font-size:12px; color:rgba(255,255,255,.74); }
-    .credit a { color:#fff; }
-    @media (max-width:700px) { .page { background-attachment:scroll; } .verse-card { border-radius:24px; } .video-card { padding:14px; border-radius:22px; } blockquote { line-height:1.62; } }
+    *{box-sizing:border-box}
+    html{scroll-behavior:smooth}
+    body{margin:0;background:#0b111c;color:#fff;font-family:Pretendard,"Noto Sans KR","Apple SD Gothic Neo",sans-serif;-webkit-font-smoothing:antialiased}
+    .page{min-height:100vh;padding:56px 20px 72px;background:linear-gradient(180deg,rgba(11,18,32,.55),rgba(7,11,20,.94)),url("assets/background.jpg") center/cover no-repeat fixed}
+    .shell{width:min(940px,100%);margin:auto;display:grid;gap:26px}
+    .card{border:1px solid rgba(245,215,150,.25);backdrop-filter:blur(18px);-webkit-backdrop-filter:blur(18px);box-shadow:0 26px 75px rgba(0,0,0,.45)}
+    .verse{padding:clamp(36px,6vw,72px);border-radius:34px;background:linear-gradient(145deg,rgba(16,25,44,.86),rgba(24,36,62,.66));text-align:center}
+    .date{margin:0 0 10px;color:rgba(255,255,255,.78);font-size:15px;letter-spacing:.08em;font-weight:500}
+    .label{margin:0 0 28px;color:#f5d28b;font-weight:800;letter-spacing:.20em;font-size:14px}
+    blockquote{margin:0;font-family:"Noto Serif KR","Nanum Myeongjo",serif;font-size:clamp(19px,3.1vw,29px);font-weight:700;line-height:1.85;letter-spacing:-.035em;word-break:keep-all;text-shadow:0 4px 24px rgba(0,0,0,.75)}
+    .highlight{color:#ffe8a3;font-weight:900}
+    .ref{margin-top:30px;color:#f5d28b;font-size:20px;font-weight:800;letter-spacing:.05em}
+    .video{padding:26px;border-radius:28px;background:rgba(14,21,38,.88)}
+    h2{margin:0 0 16px;font-size:19px;font-weight:700;color:#f5d28b;display:flex;align-items:center;gap:8px}
+    .video-wrap{position:relative;width:100%;aspect-ratio:16/9;overflow:hidden;border-radius:20px;background:#000;box-shadow:0 12px 40px rgba(0,0,0,.5)}
+    .video-wrap iframe{position:absolute;inset:0;width:100%;height:100%;border:0}
+    .btn-wrap{display:flex;justify-content:center;margin-top:18px}
+    .watch{display:inline-flex;min-height:48px;align-items:center;padding:0 24px;border-radius:999px;background:#f5d28b;color:#0b111c;text-decoration:none;font-weight:800;font-size:15px;box-shadow:0 8px 25px rgba(245,210,139,.3);transition:transform .2s,background .2s}
+    .watch:hover{background:#ffe3a8;transform:translateY(-2px)}
+    .credit{margin:10px 0 0;text-align:center;font-size:13px;color:rgba(255,255,255,.68);letter-spacing:.02em}
+    @media(max-width:700px){
+      .page{padding:28px 14px 44px;background-attachment:scroll}
+      .verse{padding:36px 20px;border-radius:26px}
+      .video{padding:18px;border-radius:24px}
+      blockquote{line-height:1.70;font-size:clamp(16px,4.6vw,22px)}
+    }
   </style>
 </head>
 <body>
   <main class="page"><div class="shell">
-    <section class="card verse-card">
-      <p class="date">2026년 9월 23일</p>
-      <p class="label">TODAY'S WORD · 오늘의 말씀</p>
-      <blockquote>“위에서 오는 지혜는 <span class="highlight">순결하고 평화스럽습니다.</span><br>자비와 선한 열매가 풍성합니다.<br><span class="highlight">평화를 이루는 사람은 정의의 열매를 거둡니다.</span>”</blockquote>
-      <p class="note">오늘의 말씀 핵심: 순결한 지혜는 평화를 만들고, 온유와 자비를 통해 선한 열매를 맺습니다.</p>
-      <div class="reference">야고보서 3:17–18</div>
+    <section class="card verse">
+      <p class="date">2026년 9월 23일 수요일</p>
+      <p class="label">TODAY'S BIBLE VERSE · 오늘의 말씀</p>
+      <blockquote>
+        “그러나 위에서 오는 지혜는 <span class="highlight">우선 순결하고,</span><br>
+        다음으로 <span class="highlight">평화스럽고, 친절하고, 온순하고,</span><br>
+        자비와 선한 열매가 풍성하고, 편견과 위선이 없습니다.<br><br>
+        <span class="highlight">정의의 열매는 평화를 이루는 사람들이</span><br>
+        <span class="highlight">평화를 위하여 그 씨를 뿌려서 거두어들이는 열매입니다.</span>”
+      </blockquote>
+      <div class="ref">— 야고보서 3:17-18 —</div>
     </section>
-    <section class="card video-card">
-      <h2 class="video-heading">▶ 말씀과 함께 영상 보기</h2>
-      <div class="video-wrap"><iframe src="https://www.youtube-nocookie.com/embed/SxyHZ0ox3LM?rel=0&amp;playsinline=1" title="야고보서 3장 17–18절 말씀 묵상 영상" referrerpolicy="strict-origin-when-cross-origin" allow="accelerometer; autoplay; clipboard-write; encrypted-media; gyroscope; picture-in-picture; web-share" allowfullscreen></iframe></div>
-      <a class="watch-button" href="https://youtu.be/SxyHZ0ox3LM?si=GRRNjxxVhtL4tbJc" target="_blank" rel="noopener noreferrer">▶ YouTube에서 바로 보기</a>
+
+    <section class="card video">
+      <h2>▶ 야고보서 3:17-18 말씀 찬양 영상 함께 보기</h2>
+      <div class="video-wrap">
+        <iframe src="https://www.youtube-nocookie.com/embed/SxyHZ0ox3LM?rel=0&amp;playsinline=1" title="야고보서 3:17-18 말씀 찬양 영상" referrerpolicy="strict-origin-when-cross-origin" allow="accelerometer; autoplay; clipboard-write; encrypted-media; gyroscope; picture-in-picture; web-share" allowfullscreen></iframe>
+      </div>
+      <div class="btn-wrap">
+        <a class="watch" href="https://youtu.be/SxyHZ0ox3LM" target="_blank" rel="noopener noreferrer">▶ YouTube에서 바로 보기</a>
+      </div>
     </section>
-    <p class="credit">Background photo: <a href="https://www.pexels.com/photo/serene-white-flowers-in-sunlit-garden-32628232/" target="_blank" rel="noopener noreferrer">Kaiya Inouye · Pexels</a></p>
+
+    <p class="credit">매일매일 큐티 · 오늘의 말씀 배경화면 | 2026-09-23 · 야고보서 3:17-18</p>
   </div></main>
 </body>
 </html>
